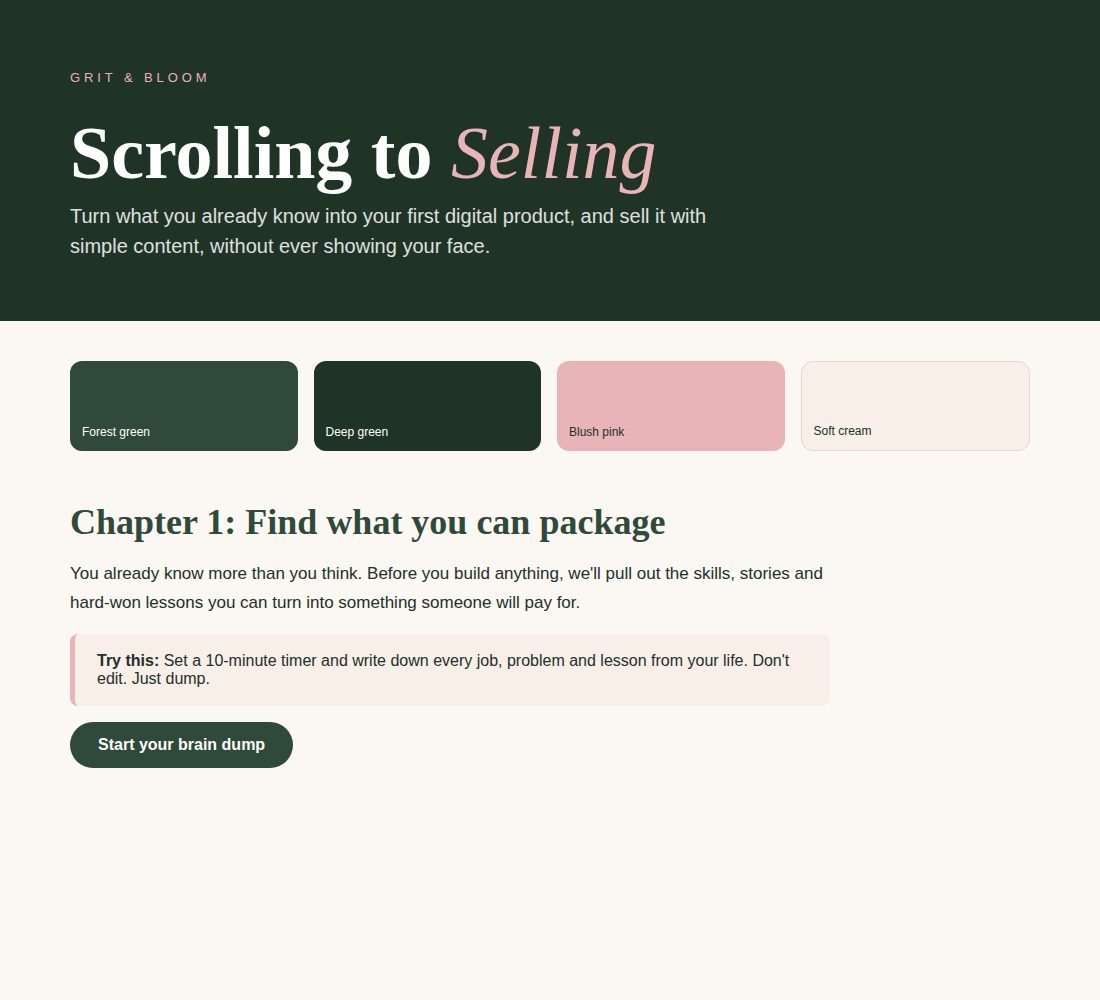
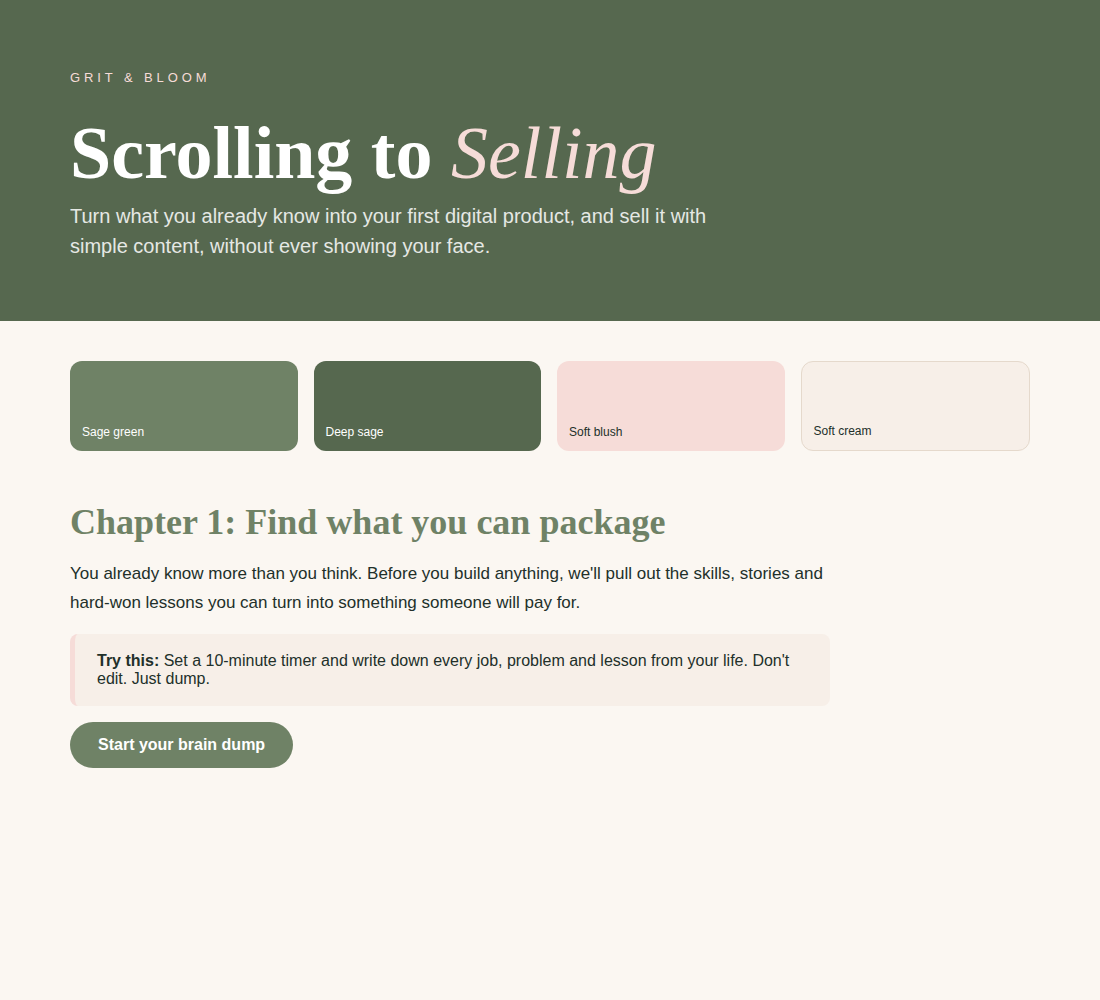
Update brand palette to sage and softer blush
Claude-Session: https://claude.ai/code/session_01JAvgaodFfzFRS7zNminX2M

diff --git a/Product/brand-preview.html b/Product/brand-preview.html
@@ -1,7 +1,7 @@
 <!doctype html><html><head><meta charset="utf-8"><title>Grit &amp; Bloom - look preview</title>
 <style>
 @import url('https://fonts.googleapis.com/css2?family=Fraunces:ital,wght@0,400;0,600;1,400&family=Inter:wght@400;600&display=swap');
-:root{--brand:#2F4A3A;--brand-deep:#1F3327;--accent:#E8B4B8;--tint:#F7EFE8;--tint-2:#FBF7F2;--ink:#22302A}
+:root{--brand:#6F8266;--brand-deep:#56684F;--accent:#F6DCD8;--tint:#F7EFE8;--tint-2:#FBF7F2;--ink:#22302A}
 *{box-sizing:border-box}body{margin:0;background:var(--tint-2);font-family:Inter,Helvetica,sans-serif;color:var(--ink);width:1100px}
 .cover{background:var(--brand-deep);color:#fff;padding:70px 70px 60px}
 .mast{letter-spacing:.3em;font-size:13px;text-transform:uppercase;color:var(--accent)}
@@ -20,8 +20,8 @@ p{font-size:17px;line-height:1.7;max-width:760px}
 <h1>Scrolling to <em>Selling</em></h1>
 <div class="tag">Turn what you already know into your first digital product, and sell it with simple content, without ever showing your face.</div></div>
 <div class="row">
-<div class="sw" style="background:#2F4A3A">Forest green</div><div class="sw" style="background:#1F3327">Deep green</div>
-<div class="sw" style="background:#E8B4B8;color:#22302A">Blush pink</div><div class="sw" style="background:#F7EFE8;color:#22302A;border:1px solid #e5d9cc">Soft cream</div></div>
+<div class="sw" style="background:#6F8266">Sage green</div><div class="sw" style="background:#56684F">Deep sage</div>
+<div class="sw" style="background:#F6DCD8;color:#22302A">Soft blush</div><div class="sw" style="background:#F7EFE8;color:#22302A;border:1px solid #e5d9cc">Soft cream</div></div>
 <div class="body"><h2>Chapter 1: Find what you can package</h2>
 <p>You already know more than you think. Before you build anything, we'll pull out the skills, stories and hard-won lessons you can turn into something someone will pay for.</p>
 <div class="call"><b>Try this:</b> Set a 10-minute timer and write down every job, problem and lesson from your life. Don't edit. Just dump.</div>

diff --git a/client-config.md b/client-config.md
@@ -48,7 +48,7 @@ Mode: Automated (Claude Code)
 
 ## Brand & Look (draft, owner wants to review then maybe change)
 - Feeling: grounded and feminine (D), earthy, a little "bloom"
-- Palette: forest green #2F4A3A, deep green #1F3327, blush pink #E8B4B8, soft cream #F7EFE8
+- Palette (v2, sage + softer blush): sage #6F8266, deep sage #56684F, soft blush #F6DCD8, cream #F7EFE8
 - Fonts: elegant serif titles (Fraunces) + clean sans body (Inter)
 - Logo: none. Owner has an unloved ChatGPT-made one; use text wordmark "Grit & Bloom" for now.
 - Preview: Product/brand-preview.png
